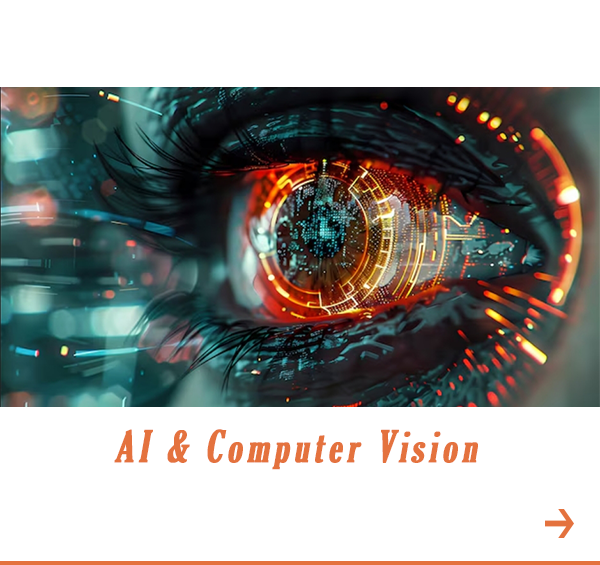
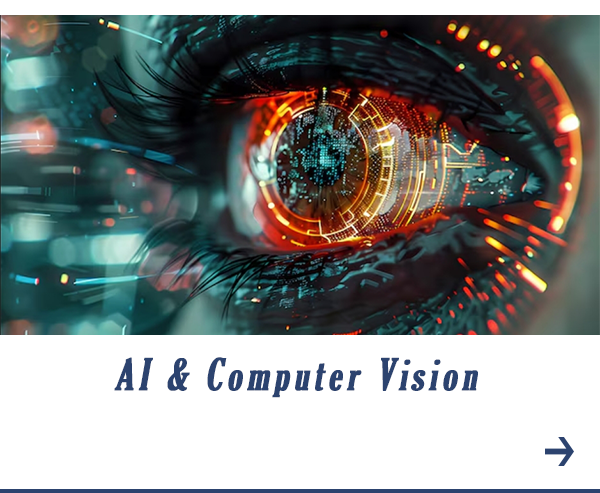
Ajout site page

diff --git a/FuturoTech_Solution.html b/FuturoTech_Solution.html
@@ -1,13 +1,14 @@
 <!DOCTYPE html>
 <html lang="fr">
+
 <head>
     <meta charset="UTF-8">
     <meta name="viewport" content="width=device-width, initial-scale=1.0">
-    <title>Page avec Vidéo</title>
+    <title>Futuro Tech</title>
     <style>
-         /* Style pour le menu de navigation */
-         nav {
-            background-color: #000000;
+        /* Style pour le menu de navigation */
+        nav {
+            background-color: #2c436f9f;
             overflow: hidden;
             position: fixed;
             top: 0;
@@ -15,55 +16,23 @@
             z-index: 1000;
             transition: background-color 0.3s;
         }
+
         nav a {
             display: block;
             color: white;
             text-align: center;
-            padding: 14px 15px; /* Espacement réduit pour PC */
+            padding: 14px 15px;
             text-decoration: none;
-            float: left; /* Disposition en ligne sur PC */
-        }
-        /* Menu burger pour mobile */
-        .menu-icon {
-            display: none; /* Caché par défaut pour PC */
-            float: right;
-            padding: 14px 20px;
-            color: white;
-            font-size: 24px;
-            cursor: pointer;
-        }
-        .nav-links {
-            display: flex;
-            justify-content: space-around;
-            align-items: center;
-        }
-        .nav-links.active {
-            display: flex;
-            flex-direction: column;
+            float: left;
         }
 
-        /* Style pour le contenu principal */
-        .container {
-            text-align: center;
-            padding: 50px;
-        }
-                /* Style pour les images supplémentaires */
-        nav a {
-            display: block;
-            color: white;
-            text-align: center;
-            padding: 14px 15px; /* Espacement réduit entre les éléments pour PC */
-            text-decoration: none;
-            float: left; /* Pour une disposition en ligne sur PC */
-        }
         nav a:hover {
             background-color: #ddd;
-            color: rgb(0, 0, 0);
+            color: black;
         }
 
-        /* Menu burger pour mobile */
         .menu-icon {
-            display: none; /* Caché par défaut pour PC */
+            display: none;
             float: right;
             padding: 14px 20px;
             color: white;
@@ -76,26 +45,28 @@
             justify-content: space-around;
             align-items: center;
         }
+
         .nav-links.active {
             display: flex;
             flex-direction: column;
         }
 
-        /* Style pour l'image de fond */
-        .background-image {
-            background-image: url('background.png');
+        /* Style pour le diaporama en background */
+        .slideshow-container {
+            position: relative;
+            height: 400px;
+            width: 100%;
             background-size: cover;
             background-position: center;
-            height: 410px;
-            width: 100%;
-            position: relative;
             margin-top: 50px;
+            animation: fade 5s infinite;
         }
 
-        /* Style pour le contenu principal */
-        .container {
-            text-align: center;
-            padding: 50px;
+        @keyframes fade {
+            0% { background-image: url('slide1.png'); }
+            33% { background-image: url('slide2.png'); }
+            66% { background-image: url('slide3.png'); }
+            100% { background-image: url('slide1.png'); }
         }
 
         /* Style pour les images supplémentaires */
@@ -104,32 +75,37 @@
             justify-content: center;
             flex-wrap: wrap;
             gap: 20px;
-            margin-bottom: 50px;
+            margin: 50px 0;
         }
+
         .image-wrapper {
             position: relative;
             width: 30%;
         }
+
         .additional-image {
             width: 100%;
             height: auto;
             transition: transform 0.3s;
         }
+
         .additional-image:hover {
             transform: scale(1.05);
         }
+
         .discover-button {
             display: none;
             position: absolute;
             bottom: 10px;
             left: 50%;
             transform: translateX(-50%);
-            background-color: #e4723e;
-            color: rgb(255, 255, 255);
+            background-color: #2c436f;
+            color: white;
             padding: 10px;
             text-decoration: none;
-            border-radius: 20px;
+            border-radius: 5px;
         }
+
         .image-wrapper:hover .discover-button {
             display: block;
         }
@@ -137,130 +113,55 @@
         /* Styles spécifiques pour les smartphones */
         @media (max-width: 768px) {
             nav a {
-                display: none; /* Cacher les liens sur mobile */
-                float: none; /* Supprimer le float pour les versions mobiles */
+                display: none;
+                float: none;
             }
+
             .menu-icon {
-                display: block; /* Afficher l'icône du menu burger */
+                display: block;
             }
+
             .nav-links {
-                display: none; /* Cacher les liens par défaut sur mobile */
+                display: none;
                 flex-direction: column;
                 width: 100%;
-                background-color: #000000;
+                background-color: #005582;
             }
+
             .nav-links.active {
-                display: flex; /* Montrer les liens lorsque l'icône est cliquée */
+                display: flex;
             }
+
             .nav-links a {
                 display: block;
                 padding: 10px 0;
                 text-align: center;
-            }
-
-            /* Adapter le contenu principal pour mobile */
-            .container {
-                padding: 20px; /* Réduire l'espacement sur les côtés */
-            }
-            .container h1 {
-                font-size: 24px; /* Taille de police plus petite pour les titres */
-            }
-            .container p {
-                font-size: 16px; /* Réduire la taille de la police */
             }
 
             /* Adapter les images supplémentaires pour mobile */
             .image-wrapper {
-                width: 90%; /* Chaque image occupe une grande partie de la largeur sur mobile */
-            }
-            .additional-image {
-                width: 100%;
+                width: 90%;
             }
 
-            /* Réduire la hauteur de l'image de fond sur mobile */
-            .background-image {
-                height: 250px;
+            /* Réduire la hauteur du diaporama pour mobile */
+            .slideshow-container {
+                height: 200px;
             }
         }
 
-        /* Styles pour les tablettes */
-        @media (max-width: 1024px) and (min-width: 769px) {
-            .image-wrapper {
-                width: 45%; /* Ajuster la taille des images pour tablettes */
-            }
-        }
-
-
-        /* Styles spécifiques pour les smartphones */
-        @media (max-width: 768px) {
-            nav a {
-                display: none; /* Cacher les liens sur mobile */
-                float: none;
-            }
-            .menu-icon {
-                display: block; /* Afficher l'icône du menu burger */
-            }
-
-            .nav-links.active {
-                display: flex; /* Montrer les liens lorsque l'icône est cliquée */
-            }
-            .nav-links a {
-                display: block;
-                padding: 10px 0;
-                text-align: center;
-            }
-
-            /* Adapter le contenu principal pour mobile */
-            .container {
-                padding: 20px; /* Réduire l'espacement sur les côtés */
-            }
-            .container h1 {
-                font-size: 50px; /* Taille de police plus petite pour les titres */
-            }
-            .container p {
-                font-size: 16px; /* Réduire la taille de la police */
-            }
-        }
-
-        /* Styles pour les tablettes */
-        @media (max-width: 1024px) and (min-width: 769px) {
-            .container h1 {
-                font-size: 28px; /* Ajustement taille titre tablette */
-            }
-            .container p {
-                font-size: 18px;
-            }
-        }
         body {
             font-family: Arial, sans-serif;
             margin: 0;
             padding: 0;
-            text-align: center;
-            background-color: #f4f4f4;
-        }
-
-        header {
-            background-color: #333;
-            color: white;
-            padding: 10px 0;
-            margin-bottom: 20px;
-        }
-
-        h1 {
-            margin: 0;
-        }
-
-        footer {
-            margin-top: 30px;
-            color: #555;
         }
     </style>
 </head>
+
 <body>
-    
+
     <!-- Menu de navigation -->
     <nav id="navbar">
-        <span class="menu-icon" onclick="toggleMenu()">&#9776;</span> <!-- Icône du menu burger -->
+        <span class="menu-icon" onclick="toggleMenu()">&#9776;</span>
         <div class="nav-links" id="nav-links">
             <a href="index.html" onclick="closeMenu()">Accueil</a>
             <a href="contact.html" onclick="closeMenu()">Contact</a>
@@ -270,39 +171,39 @@
             <a href="FuturoTech_Accessoires.html" onclick="closeMenu()">Futuro Tech Accessoires</a>
         </div>
     </nav>
- <!-- Trois images avec boutons découvrir -->
- <div class="image-container">
-    <div class="image-wrapper">
-        <img src="imagefs2.png" alt="Image 1" class="additional-image">
-        <a href="Ai&compute_vision.html" class="discover-button">Découvrir</a>
+
+    <!-- Diaporama automatique en arrière-plan -->
+    <div class="slideshow-container"></div>
+
+    <!-- Trois images avec boutons découvrir -->
+    <div class="image-container">
+        <div class="image-wrapper">
+            <img src="imagefs1.png" alt="Image 1" class="additional-image">
+            <a href="SystemeAnti_incendie.html" class="discover-button">Découvrir</a>
+        </div>
+        <div class="image-wrapper">
+            <img src="imagefs2.png" alt="Image 2" class="additional-image">
+            <a href="FuturoTech_Solution.html" class="discover-button">Découvrir</a>
+        </div>
+        <div class="image-wrapper">
+            <img src="imagefs3.png" alt="Image 3" class="additional-image">
+            <a href="FuturoTech_Solution.html" class="discover-button">Découvrir</a>
+        </div>
     </div>
-    <div class="image-wrapper">
-        <img src="imagefs3.png" alt="Image 2" class="additional-image">
-        <a href="IHM.html" class="discover-button">Découvrir</a>
-    </div>
-    <div class="image-wrapper">
-        <img src="imagefs1.png" alt="Image 3" class="additional-image">
-        <a href="SystemeAnti_incendie.html" class="discover-button">Découvrir</a>
-    </div>
-</div>
+
     <!-- Script pour basculer le menu burger et fermer après un clic -->
     <script>
         function toggleMenu() {
             const navLinks = document.getElementById('nav-links');
-            navLinks.classList.toggle('active'); // Afficher/masquer la liste
+            navLinks.classList.toggle('active');
         }
 
         function closeMenu() {
             const navLinks = document.getElementById('nav-links');
-            navLinks.classList.remove('active'); // Fermer le menu après clic
+            navLinks.classList.remove('active');
         }
     </script>
 
-    
-
-    <footer>
-        <p>&copy; Futuro Tech Solution</p>
-    </footer>
-
 </body>
+
 </html>
